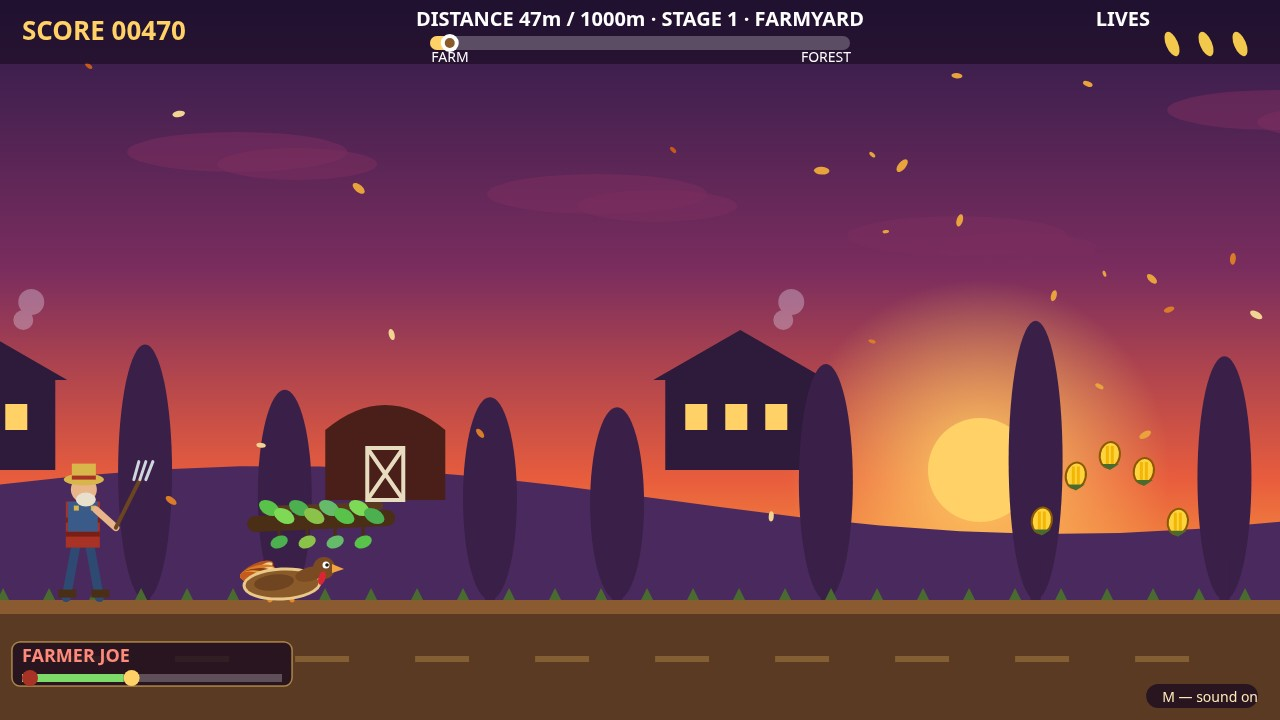
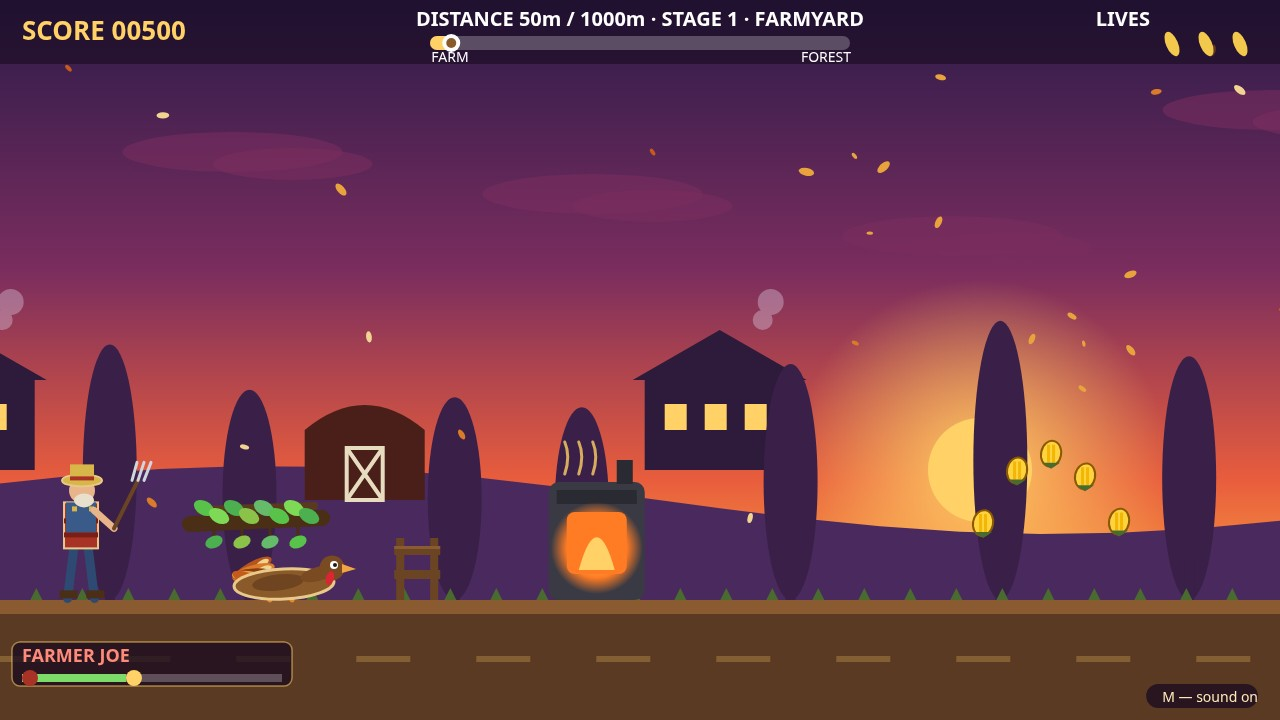
Revision v7: fresh-eyes audit fixes — wider duck pose, denser chase staging, darker title scrim, dimmer gate glow, farmer rim

diff --git a/game/src/turkey.js b/game/src/turkey.js
@@ -188,21 +188,26 @@ function turkeyDraw(ctx, t, time) {
 // The duck pose: squat body, neck stretched forward low, head down near
 // the ground, tail folded flat behind. Local frame: (0,0) is the top of
 // the ducked box, h is the ducked height, the ground is at local y = h.
+// v7: the duck is WIDER, not taller — a longer body, a bigger head
+// stretched further forward, a wider tail fan — so the crouch reads as
+// a substantial bird at thumbnail size instead of a speck. The top edge
+// never rises: the head top stays at local y ~2, still clear of the
+// hanging branch leaves (which end ~6px above the ducked box top).
 function turkeyDrawDuck(ctx, h) {
-  // Tail folded flat behind, pointing back and down.
+  // Tail folded flat behind, pointing back and down — fan spread wider.
   const tailColors = ['#b5541e', '#d97b29', '#8a3b12', '#e8a33d', '#c65a1a'];
   for (let i = 0; i < 5; i++) {
-    const a = 1.15 + i * 0.18;
+    const a = 1.05 + i * 0.24;
     ctx.save();
-    ctx.translate(14, h - 24);
+    ctx.translate(10, h - 24);
     ctx.rotate(a);
     ctx.fillStyle = tailColors[i];
     ctx.beginPath();
-    ctx.ellipse(0, -14, 7, 18, 0, 0, Math.PI * 2);
+    ctx.ellipse(0, -14, 7, 22, 0, 0, Math.PI * 2);
     ctx.fill();
     ctx.fillStyle = '#f2d492';
     ctx.beginPath();
-    ctx.ellipse(0, -24, 3, 7, 0, 0, Math.PI * 2);
+    ctx.ellipse(0, -26, 3, 7, 0, 0, Math.PI * 2);
     ctx.fill();
     ctx.restore();
   }
@@ -221,54 +226,55 @@ function turkeyDrawDuck(ctx, h) {
   // Squat body, wide and flat, with the same warm rim as the standing pose.
   ctx.fillStyle = '#8a5a2b';
   ctx.beginPath();
-  ctx.ellipse(52, h - 16, 38, 15, -0.05, 0, Math.PI * 2);
+  ctx.ellipse(54, h - 16, 50, 15, -0.05, 0, Math.PI * 2);
   ctx.fill();
   ctx.strokeStyle = '#e8c98a';
   ctx.lineWidth = 3;
   ctx.stroke();
   ctx.fillStyle = '#a06a35';
   ctx.beginPath();
-  ctx.ellipse(58, h - 20, 24, 10, -0.05, 0, 0, Math.PI * 2);
+  ctx.ellipse(60, h - 20, 30, 10, -0.05, 0, 0, Math.PI * 2);
   ctx.fill();
 
   // Wing pressed flat along the body.
   ctx.save();
-  ctx.translate(48, h - 18);
+  ctx.translate(52, h - 18);
   ctx.rotate(-0.12);
   ctx.fillStyle = '#6e4520';
   ctx.beginPath();
-  ctx.ellipse(-4, 0, 20, 8, 0, 0, Math.PI * 2);
+  ctx.ellipse(-4, 0, 26, 8, 0, 0, Math.PI * 2);
   ctx.fill();
   ctx.restore();
 
-  // Neck stretched forward, almost horizontal, head low.
+  // Neck stretched forward, almost horizontal, head low — longer and
+  // bigger than before, so the head reads at thumbnail size.
   ctx.fillStyle = '#7a4a22';
   ctx.beginPath();
-  ctx.ellipse(80, h - 26, 15, 7, -0.25, 0, Math.PI * 2);
+  ctx.ellipse(88, h - 26, 18, 7, -0.25, 0, Math.PI * 2);
   ctx.fill();
   ctx.beginPath();
-  ctx.arc(94, h - 32, 11, 0, Math.PI * 2);
+  ctx.arc(102, h - 32, 12.5, 0, Math.PI * 2);
   ctx.fill();
   // Beak.
   ctx.fillStyle = '#f2a541';
   ctx.beginPath();
-  ctx.moveTo(102, h - 36);
-  ctx.lineTo(114, h - 31);
-  ctx.lineTo(102, h - 27);
+  ctx.moveTo(112, h - 36);
+  ctx.lineTo(126, h - 31);
+  ctx.lineTo(112, h - 27);
   ctx.closePath();
   ctx.fill();
   // Wattle.
   ctx.fillStyle = '#d92632';
   ctx.beginPath();
-  ctx.ellipse(92, h - 22, 3.5, 7, 0.3, 0, Math.PI * 2);
+  ctx.ellipse(100, h - 22, 4, 7, 0.3, 0, Math.PI * 2);
   ctx.fill();
   // Eye.
   ctx.fillStyle = '#ffffff';
   ctx.beginPath();
-  ctx.arc(96, h - 35, 3.5, 0, Math.PI * 2);
+  ctx.arc(104, h - 35, 4, 0, Math.PI * 2);
   ctx.fill();
   ctx.fillStyle = '#1a1a1a';
   ctx.beginPath();
-  ctx.arc(97, h - 35, 1.8, 0, Math.PI * 2);
+  ctx.arc(105, h - 35, 2, 0, Math.PI * 2);
   ctx.fill();
 }

diff --git a/game/src/world.js b/game/src/world.js
@@ -191,13 +191,16 @@ function drawForestGate(ctx, x, time) {
   ctx.beginPath();
   ctx.ellipse(x + 60, CFG.groundY - 190, 60, 190, 0, 0, Math.PI * 2);
   ctx.fill();
-  // Golden light beyond the gate.
-  const glow = ctx.createRadialGradient(x, CFG.groundY - 90, 10, x, CFG.groundY - 90, 130);
-  glow.addColorStop(0, 'rgba(255, 209, 102, 0.95)');
+  // Golden light beyond the gate. v7: the glow was so hot (0.95) it
+  // bleached the turkey's tail where the bird stands in it — 0.7 with a
+  // slightly smaller radius lets the dark green trees show through, so
+  // the orange tail keeps its contrast against the gate.
+  const glow = ctx.createRadialGradient(x, CFG.groundY - 90, 10, x, CFG.groundY - 90, 115);
+  glow.addColorStop(0, 'rgba(255, 209, 102, 0.7)');
   glow.addColorStop(1, 'rgba(255, 209, 102, 0)');
   ctx.fillStyle = glow;
   ctx.beginPath();
-  ctx.arc(x, CFG.groundY - 90, 130, 0, Math.PI * 2);
+  ctx.arc(x, CFG.groundY - 90, 115, 0, Math.PI * 2);
   ctx.fill();
   // Banner: a bright cream panel with dark green text and a dark outline,
   // so the label reads at thumbnail size even under the end-screen dim.

diff --git a/game/src/farmer.js b/game/src/farmer.js
@@ -36,9 +36,15 @@ function farmerDraw(ctx, turkeyX, gap, time) {
   ctx.fillRect(-14 + legSwing, -8, 18, 8);
   ctx.fillRect(0 - legSwing, -8, 18, 8);
 
-  // Torso: plaid shirt + overalls.
+  // Torso: plaid shirt + overalls. A thin warm rim, like the turkey's,
+  // so the figure keeps an edge against dark trees — it matters most on
+  // the dimmed end screen, where the farmer otherwise melts into the
+  // background.
   ctx.fillStyle = '#a83226';
   ctx.fillRect(-16, -96, 34, 46);
+  ctx.strokeStyle = '#e8c98a';
+  ctx.lineWidth = 2;
+  ctx.strokeRect(-16, -96, 34, 46);
   ctx.fillStyle = '#7a1f16';
   ctx.fillRect(-16, -80, 34, 5);
   ctx.fillRect(-16, -66, 34, 5);
@@ -85,6 +91,9 @@ function farmerDraw(ctx, turkeyX, gap, time) {
   ctx.beginPath();
   ctx.ellipse(2, -118, 20, 6, 0, 0, Math.PI * 2);
   ctx.fill();
+  ctx.strokeStyle = '#e8c98a';
+  ctx.lineWidth = 2;
+  ctx.stroke();
   ctx.fillRect(-10, -134, 24, 16);
   ctx.fillStyle = '#a83226';
   ctx.fillRect(-10, -122, 24, 4);

diff --git a/game/src/hud.js b/game/src/hud.js
@@ -160,8 +160,10 @@ function hudDrawTitle(ctx, game) {
   ctx.fillText('Outrun him to the Forest Gate — 1000m through the farmyard and the kitchen yard.', w / 2, 322);
 
   // Dark scrim behind the instructions, so the lines never collide with
-  // the barn door or house silhouettes drifting behind them.
-  ctx.fillStyle = 'rgba(26, 12, 32, 0.5)';
+  // the barn door or house silhouettes drifting behind them. v7: alpha
+  // 0.5 let the barn's white X door show through right behind line 3 —
+  // 0.72 buries it while the text on top stays crisp.
+  ctx.fillStyle = 'rgba(26, 12, 32, 0.72)';
   ctx.beginPath();
   ctx.roundRect(w / 2 - 540, 356, 1080, 140, 12);
   ctx.fill();
